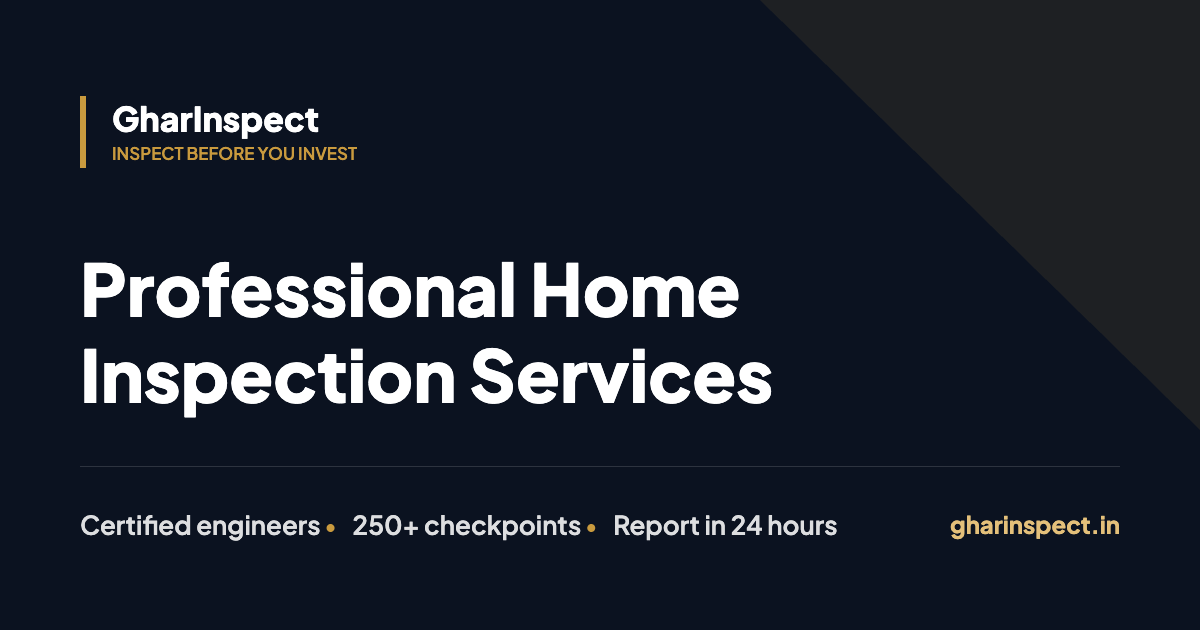
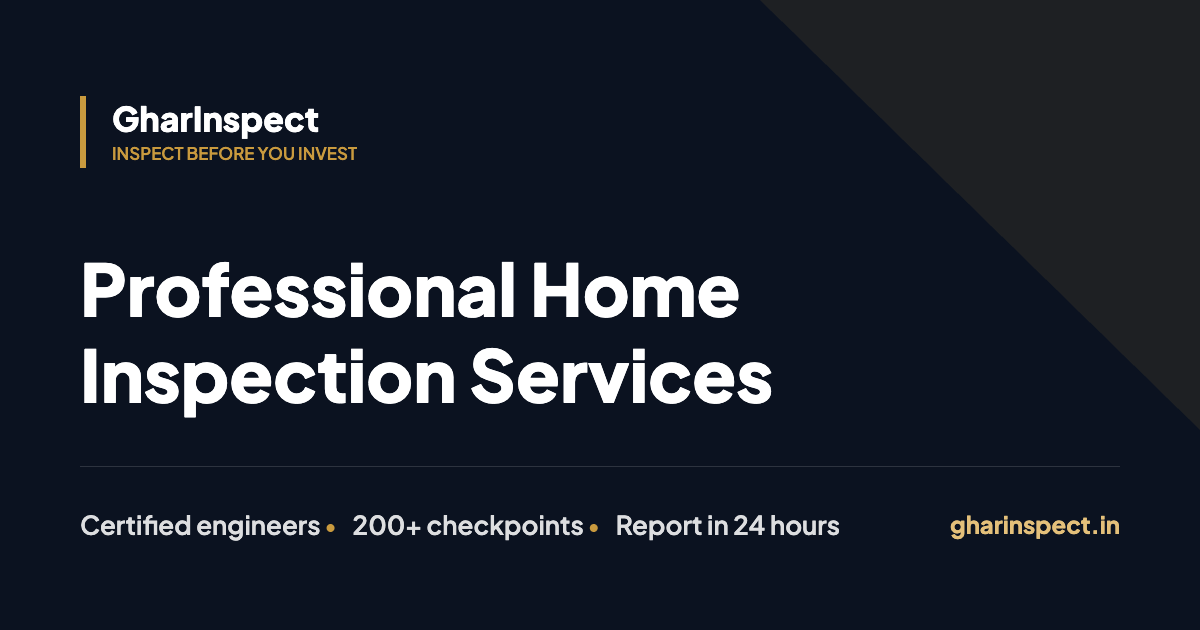
Standardise on 200 throughout
The site claimed 200+ in the process step, stats and FAQ, but 250+ in the
Starter plan features, the checklist heading, the sample-report modal, the
hero badge, the meta and social descriptions, and llms.txt.

200 is correct, applied everywhere including the Home Spaces stat. The
og.png had the old figure baked into its pixels, so it is regenerated.

No "250" remains in the prerendered HTML; the five left in the JS bundle are
library internals (React scheduler timeouts and Lenis's resize debounce).

Changed region(s): [[0.3083, 0.8143, 0.7092, 0.8746]]

diff --git a/index.html b/index.html
@@ -7,7 +7,7 @@
     <title>GharInspect — Professional Home Inspection Services in India</title>
     <meta
       name="description"
-      content="Professional home inspection for new and resale property in India. Certified engineers, 250+ checkpoints, thermal imaging, digital report in 24 hours."
+      content="Professional home inspection for new and resale property in India. Certified engineers, 200+ checkpoints, thermal imaging, digital report in 24 hours."
     />
     <meta name="theme-color" content="#0B1220" />
     <link rel="canonical" href="https://www.gharinspect.in/" />
@@ -17,7 +17,7 @@
     <meta property="og:title" content="GharInspect — Professional Home Inspection Services in India" />
     <meta
       property="og:description"
-      content="Certified engineers, 250+ checkpoints, thermal imaging and detailed digital reports within 24 hours. Inspect before you invest."
+      content="Certified engineers, 200+ checkpoints, thermal imaging and detailed digital reports within 24 hours. Inspect before you invest."
     />
     <meta property="og:url" content="https://www.gharinspect.in/" />
     <meta property="og:locale" content="en_IN" />
@@ -29,7 +29,7 @@
     <meta name="twitter:title" content="GharInspect — Professional Home Inspection Services in India" />
     <meta
       name="twitter:description"
-      content="Certified engineers, 250+ checkpoints, thermal imaging and detailed digital reports within 24 hours."
+      content="Certified engineers, 200+ checkpoints, thermal imaging and detailed digital reports within 24 hours."
     />
     <meta name="twitter:image" content="https://www.gharinspect.in/og.png" />
 

diff --git a/src/data/content.ts b/src/data/content.ts
@@ -1,7 +1,7 @@
 export const WHATSAPP_URL = 'https://wa.me/919021907313'
 
 export const stats = [
-  { value: 250, suffix: '+', label: 'Home Spaces' },
+  { value: 200, suffix: '+', label: 'Home Spaces' },
   { value: 100, suffix: '%', label: 'Customer Satisfaction' },
   { value: 24, suffix: ' hrs', label: 'Report Delivery' },
   { value: 200, suffix: '+', label: 'Inspection Checkpoints' },
@@ -72,7 +72,7 @@ export const plans: Plan[] = [
     name: 'Starter',
     price: '₹5,000',
     suitableFor: 'Suitable for 1 BHK',
-    features: ['Full property inspection', '250+ checkpoints', 'Thermal imaging', 'Digital PDF report'],
+    features: ['Full property inspection', '200+ checkpoints', 'Thermal imaging', 'Digital PDF report'],
     cta: 'Get Started',
   },
   {

diff --git a/src/components/SampleReportModal.tsx b/src/components/SampleReportModal.tsx
@@ -32,7 +32,7 @@ export function SampleReportModal({ open, onClose }: { open: boolean; onClose: (
           ))}
         </ul>
         <p className="mt-4 text-xs text-muted">
-          This is a preview snapshot. Your full report includes photo annotations across all 250+ checkpoints.
+          This is a preview snapshot. Your full report includes photo annotations across all 200+ checkpoints.
         </p>
       </div>
     </Modal>

diff --git a/src/components/Checklist.tsx b/src/components/Checklist.tsx
@@ -11,7 +11,7 @@ export function Checklist() {
           center
           light
           label="Inspection Checklist"
-          heading="250+ checkpoints. Zero shortcuts."
+          heading="200+ checkpoints. Zero shortcuts."
           description="Our engineers run through a rigorously refined checklist so nothing slips through — here's a snapshot of what's covered."
         />
 

diff --git a/src/components/Hero.tsx b/src/components/Hero.tsx
@@ -103,7 +103,7 @@ export function Hero() {
                 </svg>
               </div>
               <div>
-                <p className="text-sm font-bold text-ink">250+ checks</p>
+                <p className="text-sm font-bold text-ink">200+ checks</p>
                 <p className="text-xs text-muted">completed on-site</p>
               </div>
             </div>
